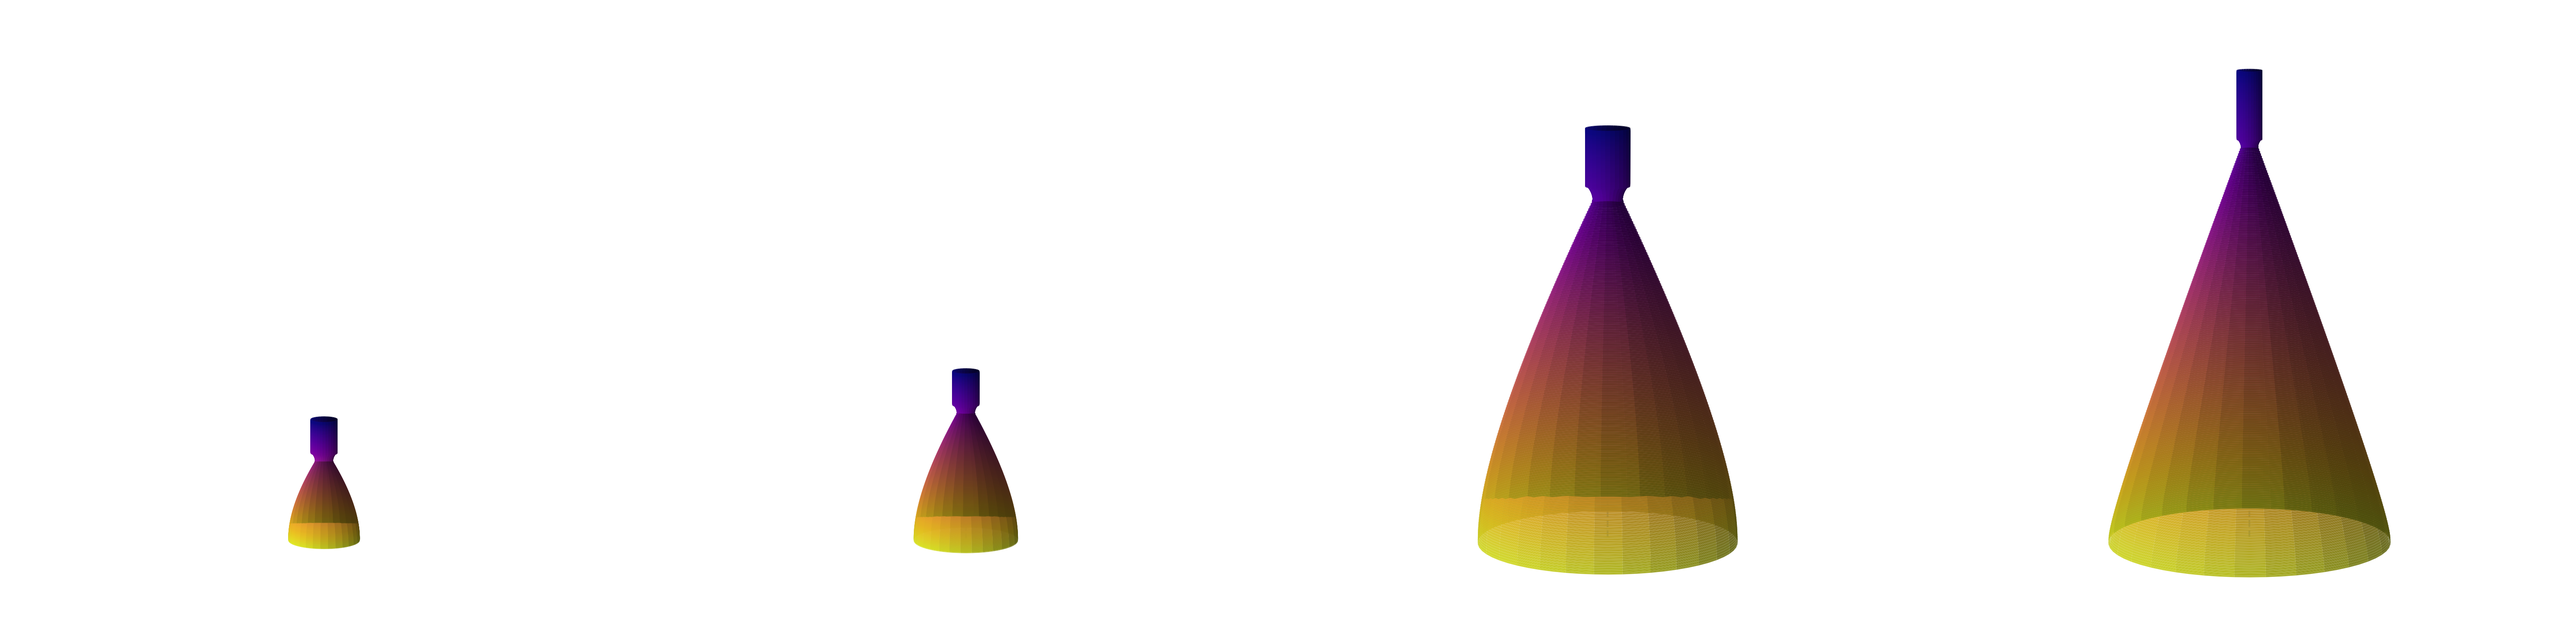
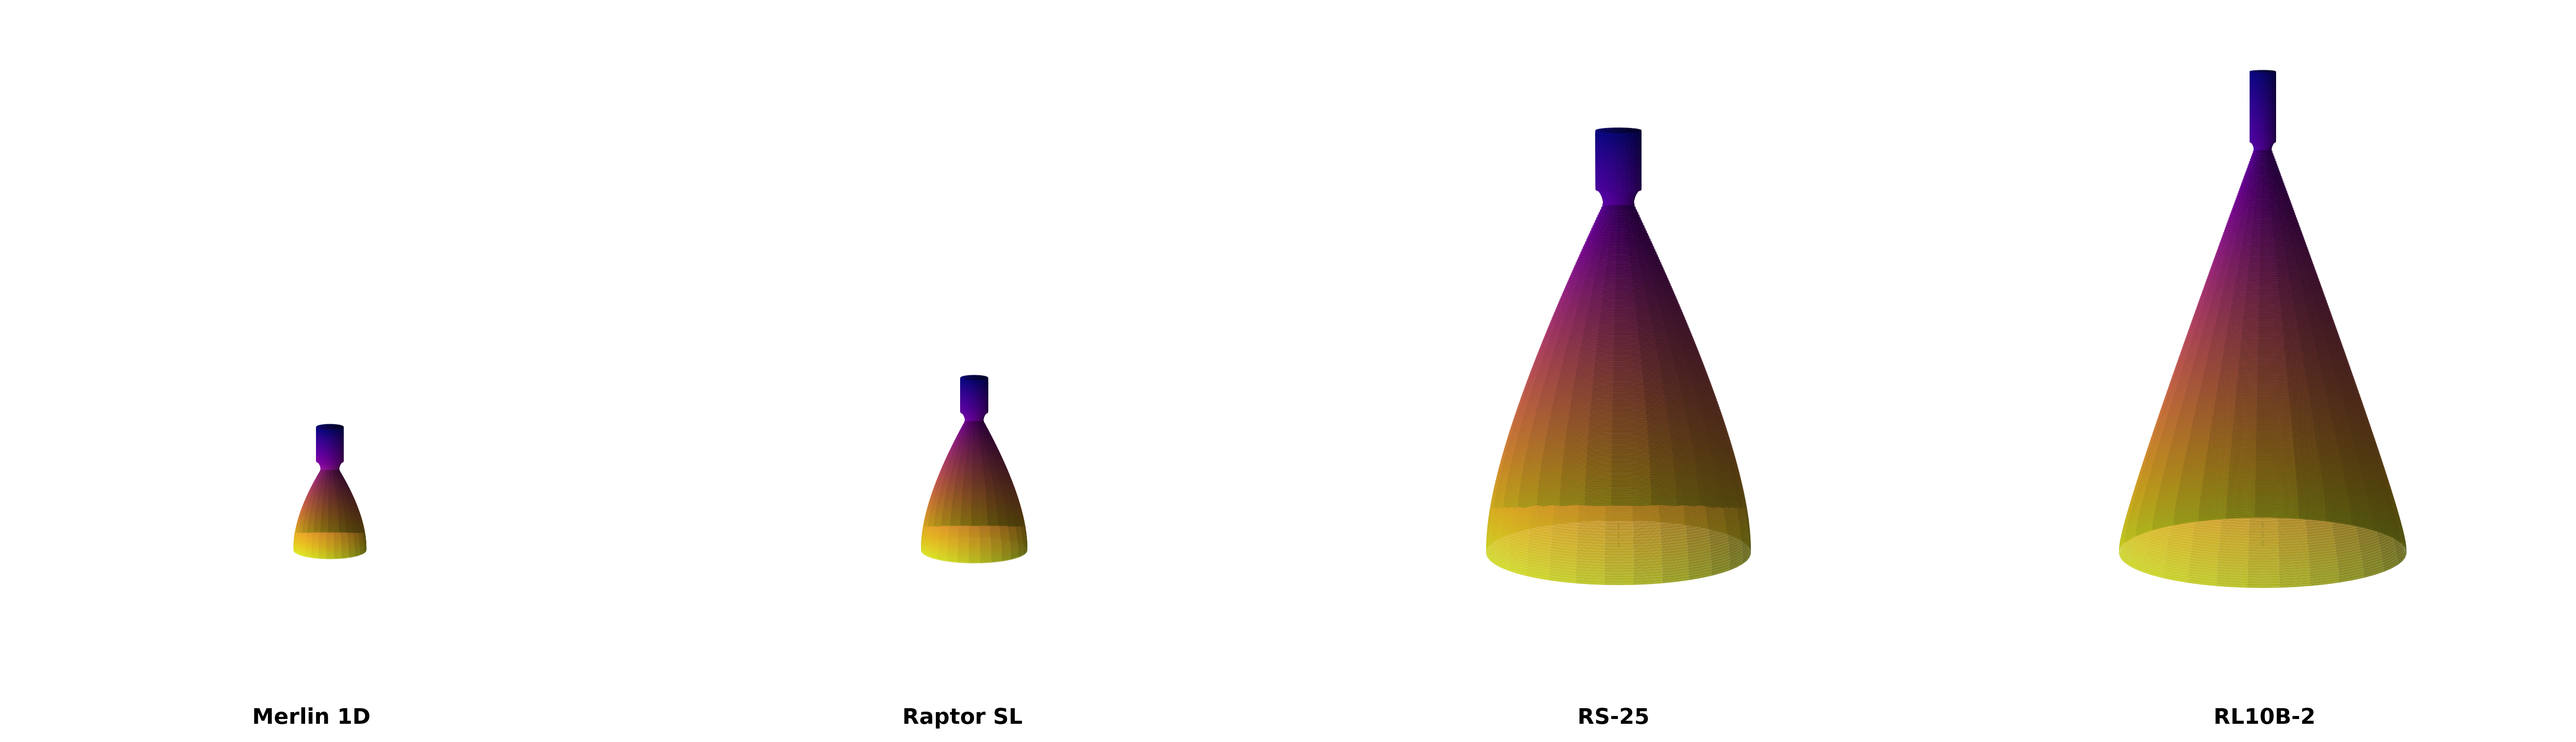
fix(viz): use fig.text for visible engine labels below subplots

diff --git a/src/viz/plot_multi_3d.py b/src/viz/plot_multi_3d.py
@@ -144,11 +144,16 @@ def plot_multi_3d(
 
         ax.view_init(elev=elevation, azim=azimuth)
 
-        # Engine name below the plot
-        ax.set_xlabel(name, fontsize=12, fontweight="bold", color="black",
-                       labelpad=12)
+    # Add engine names below each subplot in figure coordinates
+    for idx, (name, _) in enumerate(engines):
+        # Center x-position for each subplot in a 1x4 layout
+        x_center = (idx + 0.5) / 4
+        fig.text(x_center, 0.02, name, ha="center", va="bottom",
+                 fontsize=12, fontweight="bold", color="black")
 
-    plt.tight_layout(pad=2.0)
+    plt.tight_layout(pad=1.5)
+    # Shift subplots up to make room for labels below
+    fig.subplots_adjust(bottom=0.12)
 
     # Save
     output_path.parent.mkdir(parents=True, exist_ok=True)
